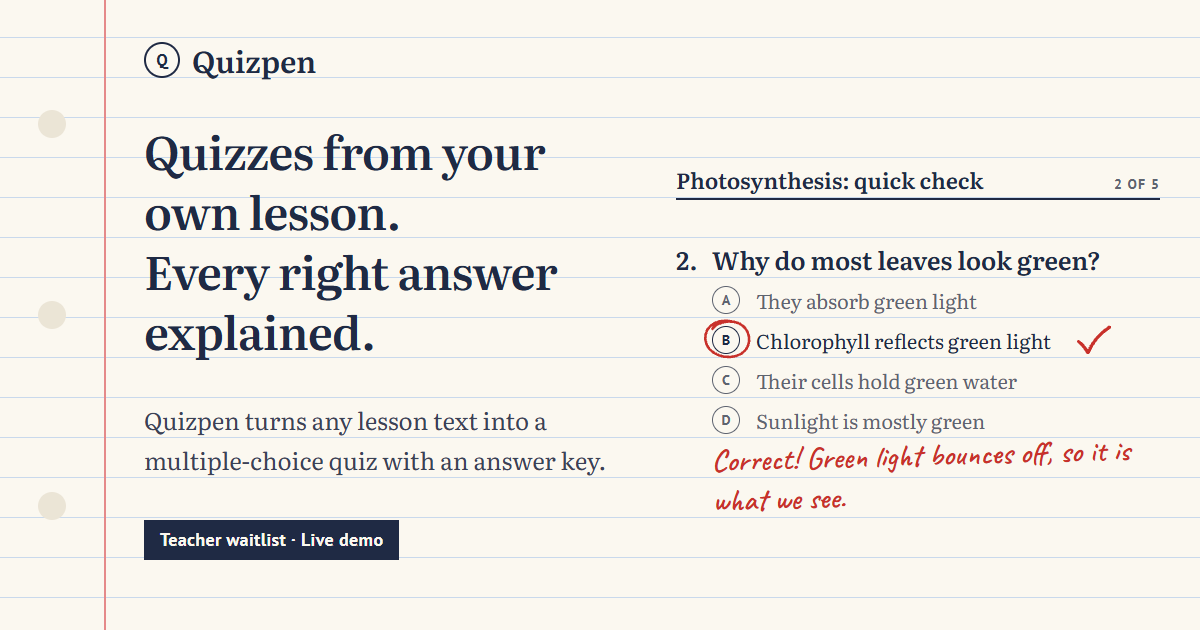
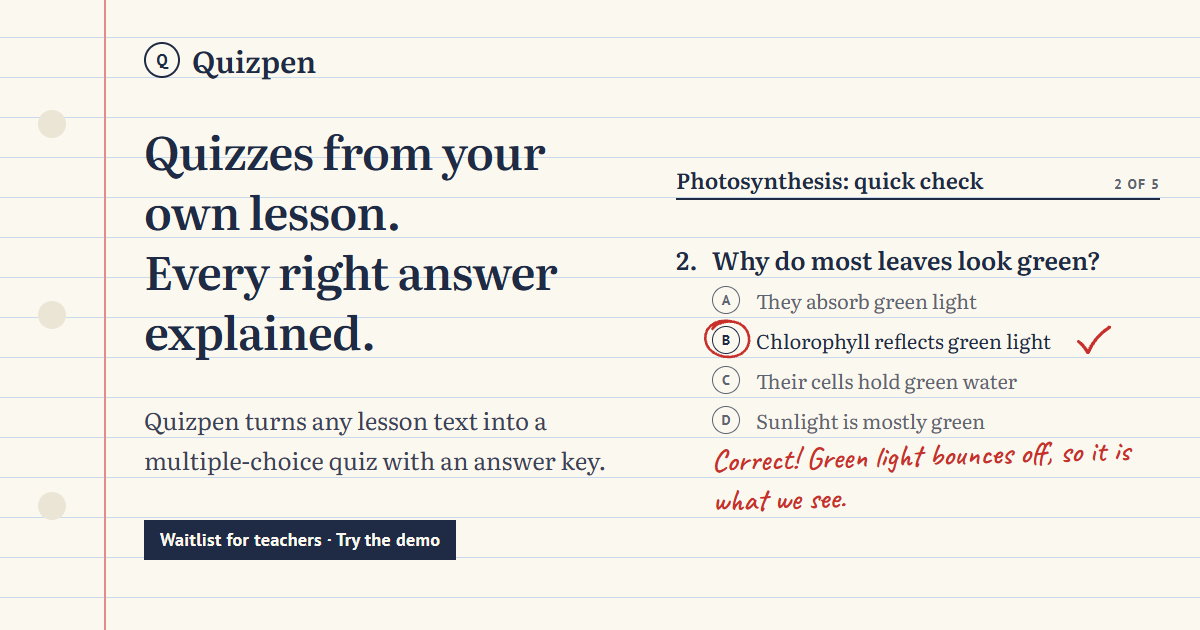
OG image: tag says try the demo

Changed region(s): [[0.1233, 0.8143, 0.4008, 0.9048]]

diff --git a/web/dev/og.html b/web/dev/og.html
@@ -46,7 +46,7 @@
     <div class="brand"><span class="brand-mark">Q</span>Quizpen</div>
     <h1>Quizzes from your own lesson.<br>Every right answer explained.</h1>
     <p class="sub">Quizpen turns any lesson text into a multiple-choice quiz with an answer key.</p>
-    <span class="tag">Teacher waitlist &middot; Live demo</span>
+    <span class="tag">Waitlist for teachers &middot; Try the demo</span>
   </div>
   <div class="sheet">
     <div class="head"><span class="title">Photosynthesis: quick check</span><span class="of">2 of 5</span></div>
